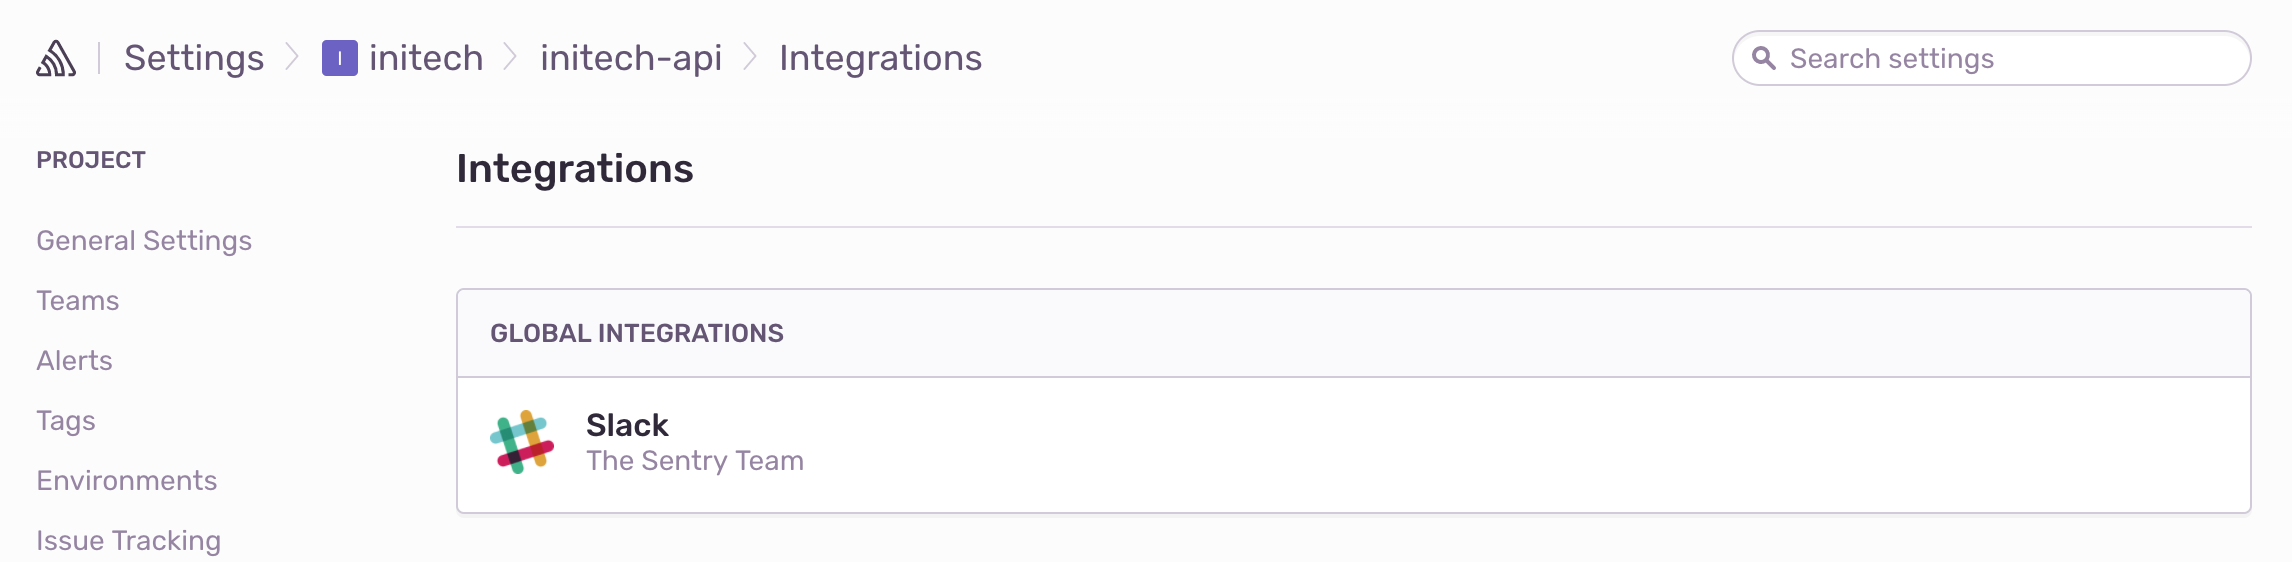
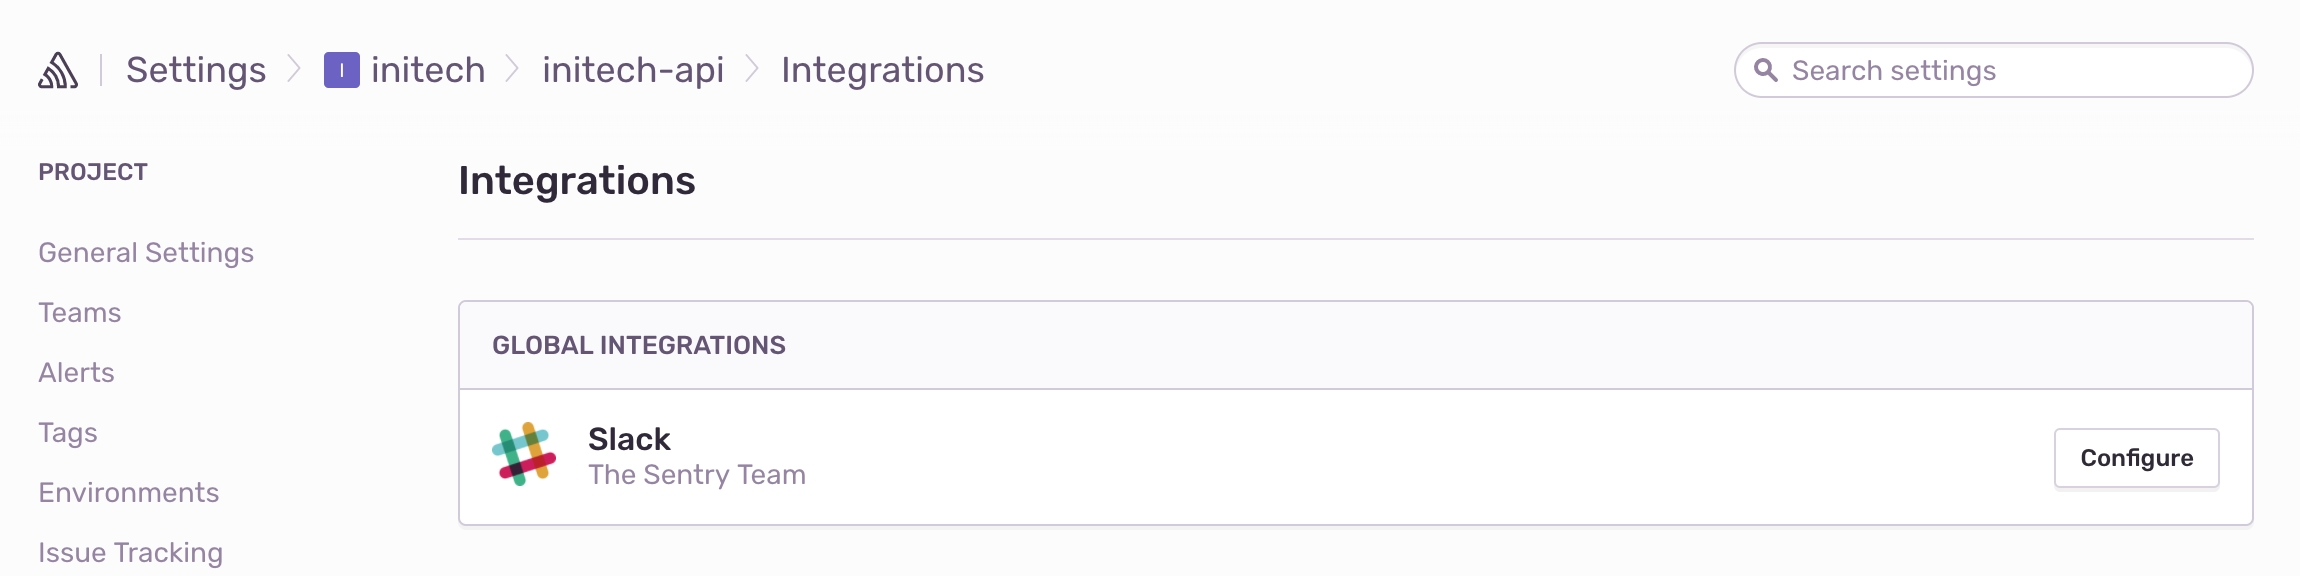
fix(integrations) update global integrations image

diff --git a/docs/integrations/slack.rst b/docs/integrations/slack.rst
@@ -10,15 +10,17 @@ Configure Slack
 
 You can authorize the Slack integration globally by clicking on **All Integrations** under your **Project settings**.
 
-At the top of the page, you'll see the available Global Integrations list, which includes Slack. Click on **Slack** to integrate your Slack workspace(s) with your project.
+.. note:: We're planning to move more legacy integrations to this style of Global Integrations soon. In the future, your Global Integrations will live in your Organization settings.
+
+At the top of the page, you'll see the available Global Integrations list, which includes Slack. Click **Configure** to integrate your Slack workspace(s) with your project.
 
     .. image:: img/slack-all-integrations-page.png
        :width: 70%
 
 Click **Add workspace**:
 
-.. image:: img/slack-global-integration-project-settings-add-workspace.png
-   :width: 70%
+    .. image:: img/slack-global-integration-project-settings-add-workspace.png
+       :width: 70%
 
 A new window will open to connect your Slack workspace with Sentry:
 
@@ -33,20 +35,20 @@ After you ensure you're connecting the correct workspace, click **Continue**.
 
 On the next page, you can choose the scope of channels you'd like Sentry to access. You can specify all public channels or choose specific channels.
 
-  .. image:: img/slack-auth-channel-pref.png
+    .. image:: img/slack-auth-channel-pref.png
        :width: 60%
 
 Click **Authorize**.
 
 Your Project Integrations page will refresh and show the Slack workspace you just added.
 
-  .. image:: img/slack-add-workspace-success.png
+    .. image:: img/slack-add-workspace-success.png
        :width: 70%
 
 You'll also see the Sentry app join the Slack channels you specified right away:
 
-  .. image:: img/slack-sentry-integration-in-channel.png
-     :width: 60%
+    .. image:: img/slack-sentry-integration-in-channel.png
+       :width: 60%
 
 Now your Slack integration is available to all projects in your Sentry organization! See the next section on the steps to configure your notification settings.
 
@@ -56,8 +58,8 @@ Configure Alert Rules for specific Slack channels
 
 Confirm your Slack workspace is configured globally for your Sentry organization by clicking on **All Integrations** from your **Project Settings**
 
-  .. image:: img/slack-global-integration-project-settings.png
-     :width: 70%
+    .. image:: img/slack-global-integration-project-settings.png
+       :width: 70%
 
 In your **Project Settings** under **Alerts** you can configure when notifications are sent to your Slack workspace(s). You can route notifications in a few ways:
 
@@ -67,27 +69,27 @@ In your **Project Settings** under **Alerts** you can configure when notificatio
 
 For any existing Alert Rules you configured, you can edit the rule to update the Slack channel routing:
 
-  .. image:: img/slack-alert-rules.png
-     :width: 70%
+    .. image:: img/slack-alert-rules.png
+       :width: 70%
 
 When you click **Edit Rule**, under **Take these actions** you can specify your Slack channel(s):
 
-  .. image:: img/slack-alert-rule-edit.png
-     :width: 70%
+    .. image:: img/slack-alert-rule-edit.png
+      :width: 70%
 
 After selecting **Send a notification to the {workspace} Slack workspace to {channel} and include tags {tags}**, you can specify the workspace, channel(s), and tags you'd like to include with your Alert Rule.
 
-  .. image:: img/slack-alert-rule-for-one-workspace.png
-     :width: 70%
+    .. image:: img/slack-alert-rule-for-one-workspace.png
+       :width: 70%
 
 You can add Alert Rules routing to as many Slack channels as you'd like!
 
 From the Slack notification, you can use the Resolve, Ignore, or Assign buttons to update the Issue in Sentry.
 
-.. image:: img/slack-alert-message.png
-   :width: 70%
+    .. image:: img/slack-alert-message.png
+       :width: 70%
 
 Deleting the legacy Slack integration
 -------------------------------------
 
-Once you configure the global Slack integration and Alert Rules, you can disable the old Slack integration. You'll need to go to each project that has it enabled and disable it. We recommend disabling the legacy integration after setting up the new one on each project.
+Once you configure the global Slack integration and Alert Rules, you can disable the old Slack integration. You'll need to go to each project that has it enabled and disable it. We recommend disabling the legacy integration after setting up the new Global Integration for Slack.
